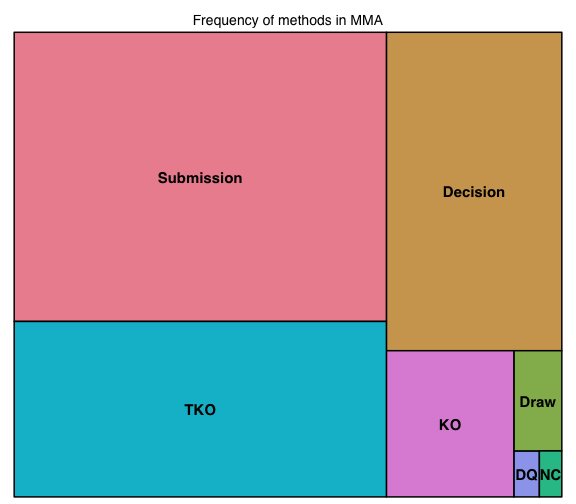
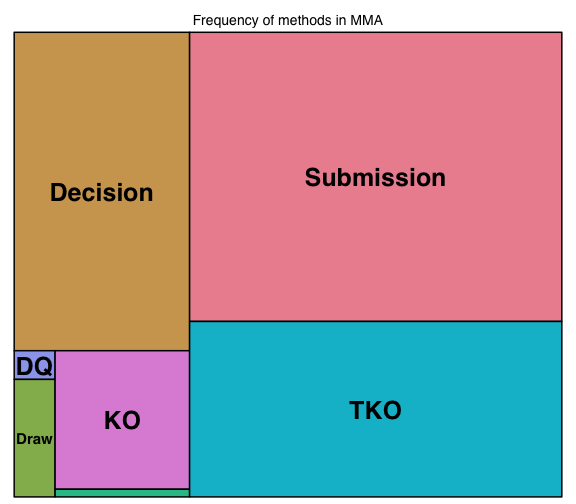
working on authors, disqus

diff --git a/_layouts/post.html b/_layouts/post.html
@@ -25,10 +25,9 @@ layout: default
       </li>
     {% endfor %}
   </ul>
-</div>
 
-<div>
-
-<section id="disqus_thread"></section><!-- /#disqus_thread -->
+	{% if page.comments == true %}
+	<section id="disqus_thread"></section><!-- /#disqus_thread -->
+	{% endif %}
 
 </div>

diff --git a/_layouts/page.html b/_layouts/page.html
@@ -7,5 +7,9 @@ layout: default
   
   {{ content }}
   {% include social-share.html %}
+  
+  {% if page.comments == true %}
+  <section id="disqus_thread"></section><!-- /#disqus_thread -->
+  {% endif %}
 
 </div>

diff --git a/_posts/2016-05-05-summarizingFights.md b/_posts/2016-05-05-summarizingFights.md
@@ -1,7 +1,9 @@
 ---
 title: "Building a large database of MMA fight results II: quantitatively summarizing over 240,000 MMA fights"
 description: "Summarizing the results and finishes of over 240,000 MMA fights"
+author: sean
 layout: post
+comments: true
 tags: [database, treemaps]
 ---
 
@@ -200,7 +202,7 @@ treemap(methods,
 index = "Method",
 vSize = "n",
 title = "Frequency of methods in MMA",
-fontsize.labels = 15)
+fontsize.labels = 25)
 {% endhighlight %}
 
 <img src="''figure/source/2016-05-05-summarizingFights/unnamed-chunk-8-1.png" title="plot of chunk unnamed-chunk-8" alt="plot of chunk unnamed-chunk-8" style="display: block; margin: auto;" />
@@ -216,7 +218,7 @@ treemap(finishes,
 index = c("Category", "Finish"),
 vSize = "n",
 title = "Frequency of finishes in MMA",
-fontsize.labels = c(0, 15))
+fontsize.labels = c(0, 25))
 {% endhighlight %}
 
 <img src="''figure/source/2016-05-05-summarizingFights/unnamed-chunk-9-1.png" title="plot of chunk unnamed-chunk-9" alt="plot of chunk unnamed-chunk-9" style="display: block; margin: auto;" />
